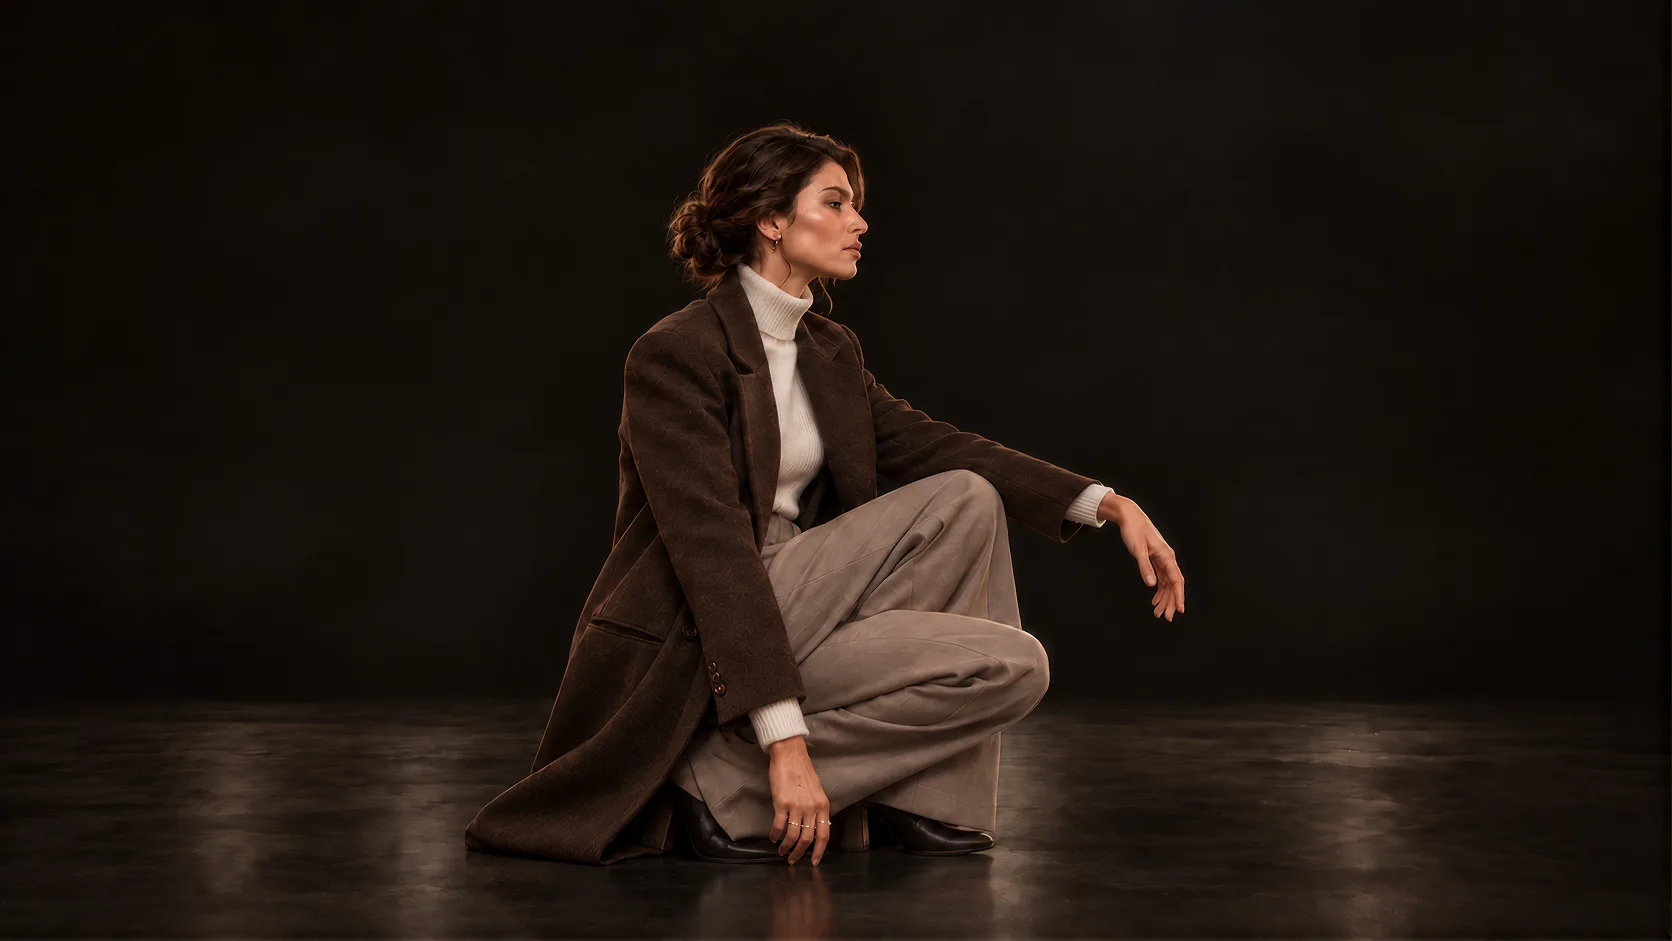
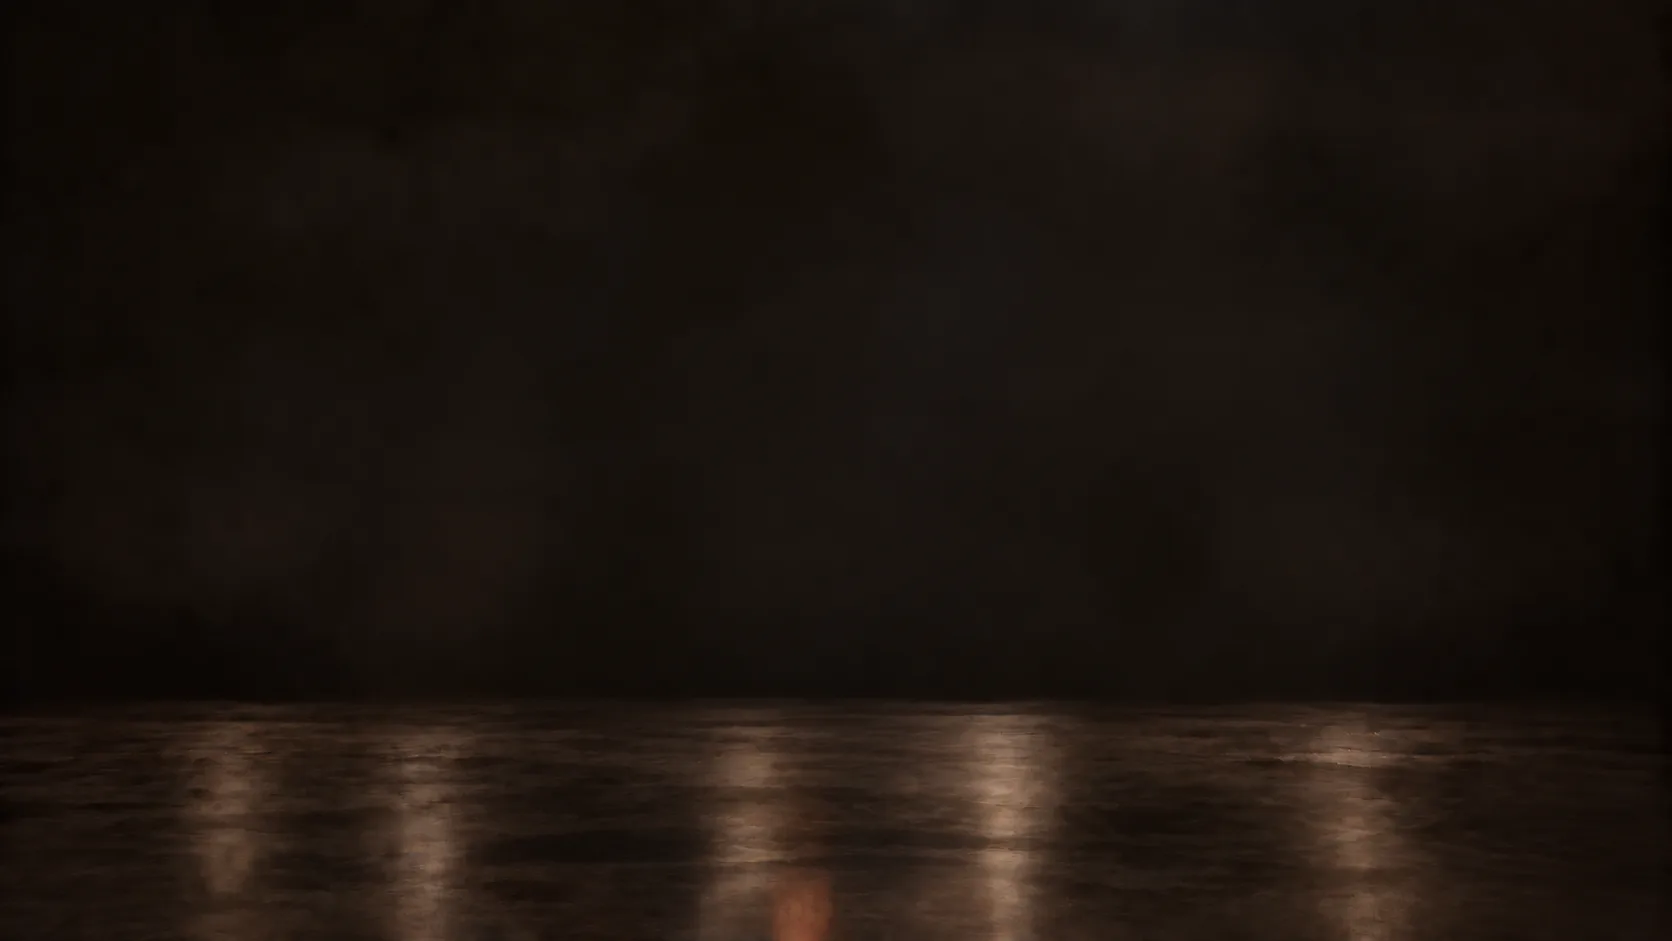
Bold: empty studio background (floor reflection kept); fade top/bottom into the page

diff --git a/src/sections/bold/bold.css b/src/sections/bold/bold.css
@@ -157,3 +157,15 @@
   .bold__overlay { top: calc(var(--band-top) + var(--band-h) * 0.3); }
   .bold__inner { padding: 6vw 4.4vw 7vw; }
 }
+
+/* ---------- blend into the page: the studio photo is warmer than obsidian, so its
+   top and bottom dissolve into the section background instead of ending on a hard
+   line; the cut-out only softens at its very bottom (shoes into the floor) ---------- */
+.bold__bg {
+  -webkit-mask: linear-gradient(to bottom, transparent 0%, #000 20%, #000 74%, transparent 100%);
+          mask: linear-gradient(to bottom, transparent 0%, #000 20%, #000 74%, transparent 100%);
+}
+.bold__model {
+  -webkit-mask: linear-gradient(to bottom, #000 88%, transparent 100%);
+          mask: linear-gradient(to bottom, #000 88%, transparent 100%);
+}
